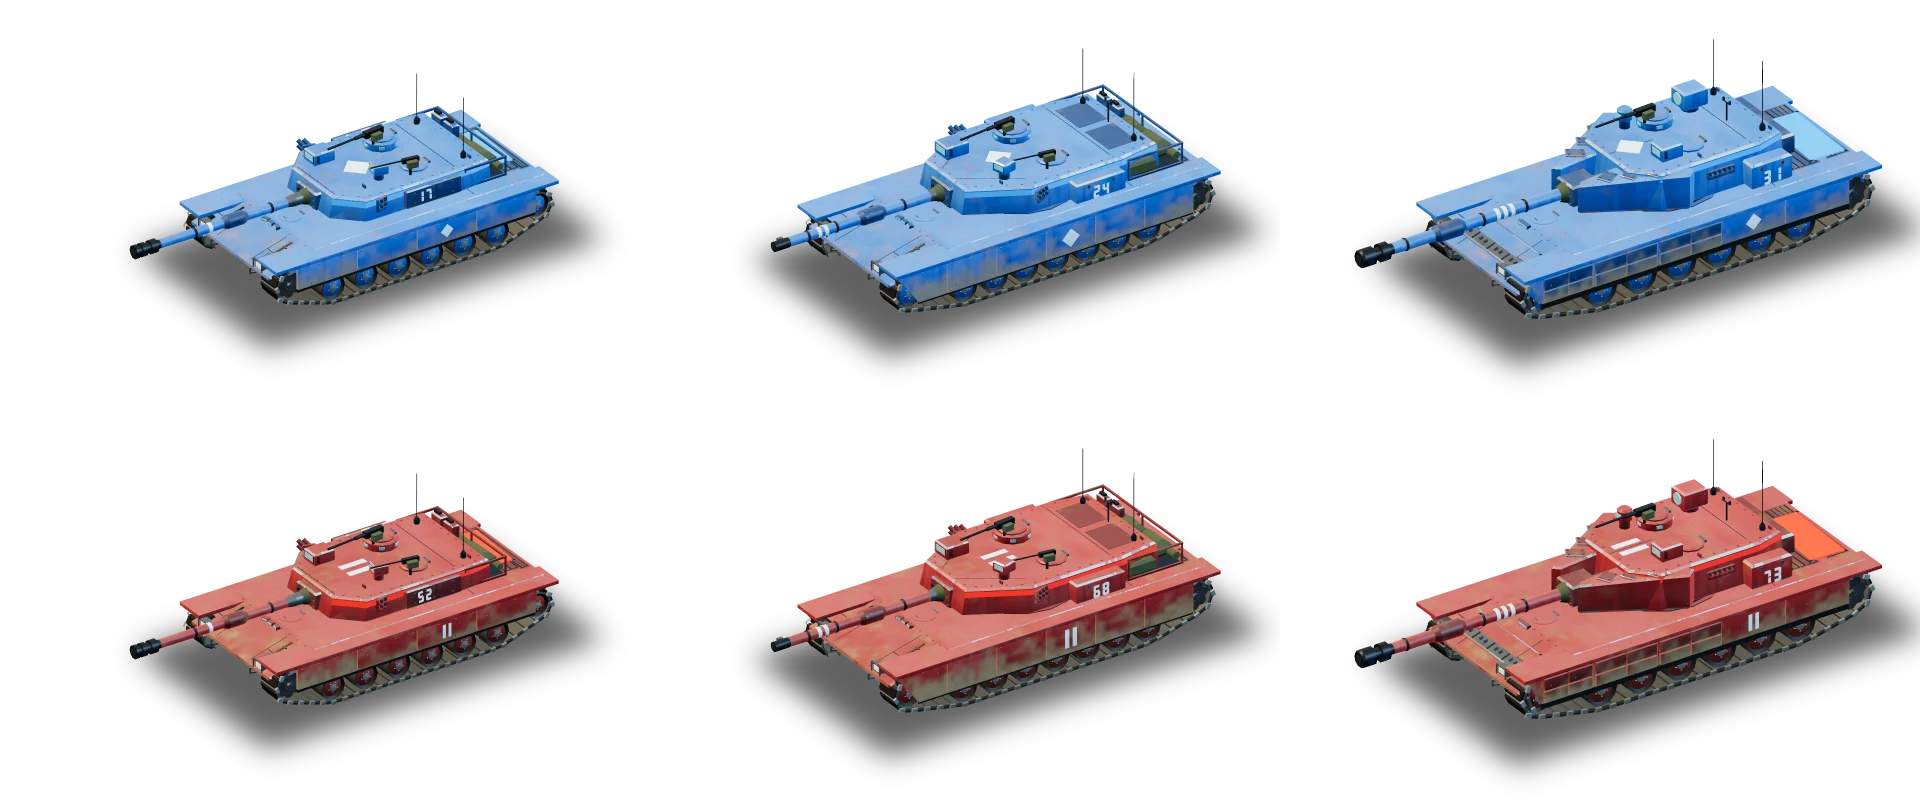
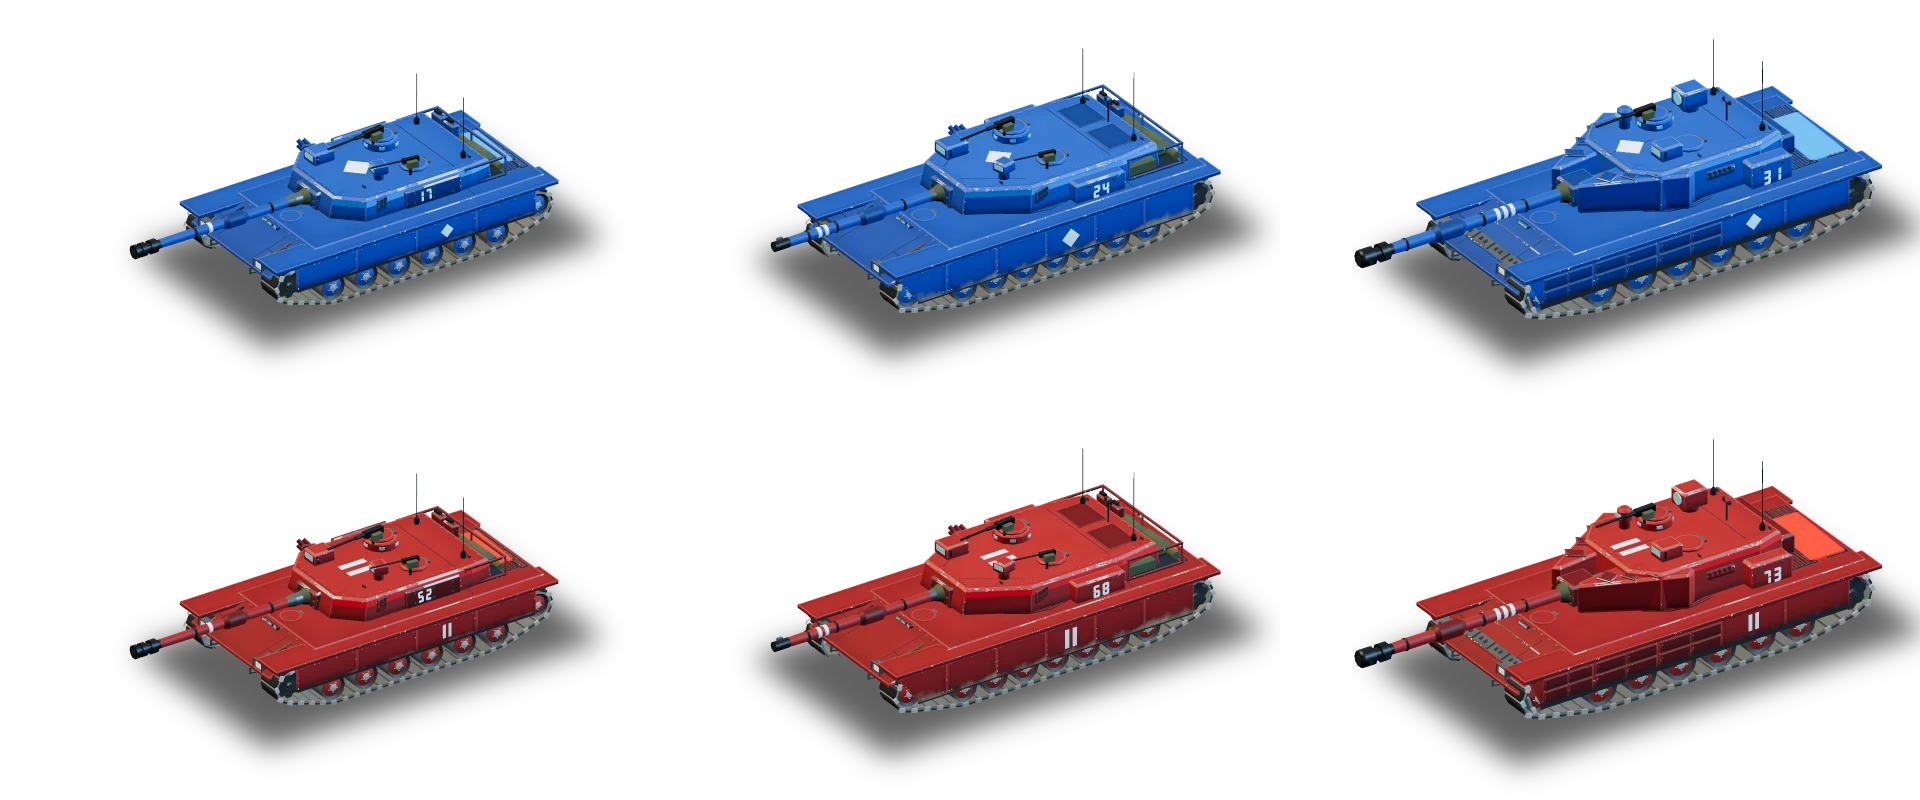
Vehicles round 3: deep team paint worn by form, bevel highlights, fill and team rim
The new direction for tanks and the HUNTER Humvee: one strong team color with
wear masked by the shape of the armor, instead of camo or a speckled finish.

- Paint: one deep team color per team (signal blue 0x234f96, crimson 0x8c2720)
  and a deep trim of it, painted by the vehicle paint shader rather than read
  from a tile, so upper panels stay clean. Upward faces lighten with height
  (turret roof above deck above fenders) and upright plates darken toward
  their foot, so the forms separate from the overhead camera.
- Edges from the mesh: the livery groups each painted mesh into plates
  (coplanar flat triangles, joined across gentle facets) and classifies each
  plate side as a convex edge or a recess from its neighbour (an upright
  plate's level foot is a recess). Every triangle carries up to two border
  line pairs in its vertex red and green; the shader recovers the distances in
  metres from their screen-space gradients. Convex edges get a pixel-sized
  bevel band (normal rolled over the edge, paint rubbed lighter) and chips to
  matte bare steel close up; recesses collect grime; panels shade a little
  darker toward their borders. No extra triangles or vertex attributes.
- Dust and mud climb only the lower hull in a broken line; the wear tile is now
  a 512 px data tile (chip field in alpha, splash and streak field in grey).
- Fill and rim: painted armor adds a fill from the sky and ground light,
[…]

diff --git a/scripts/generate-tank-textures.ts b/scripts/generate-tank-textures.ts
@@ -43,7 +43,9 @@ for (let y = 0; y < SIZE; y++)
     const i = y * SIZE + x;
     // Splashes: two scales of fractal noise, the coarse one stretched along u so the
     // dust line climbs and falls in long waves.
-    grime[i] = 0.5 + 0.75 * (fbm(splash, u * 6, v * 9, 6, 4) - 0.5) +
+    grime[i] =
+      0.5 +
+      0.75 * (fbm(splash, u * 6, v * 9, 6, 4) - 0.5) +
       0.35 * (fbm(splash, u * 24 + 5, v * 24, 24, 3) - 0.5);
     // Broad scuffing along exposed edges: a fractal field, ragged at its fine end so a
     // worn run has broken ends rather than a soft fade.
@@ -79,7 +81,7 @@ for (let placed = 0, tries = 0; placed < CHIPS && tries < 100000; tries++) {
   const mask = fbm(cluster, (x0 / SIZE) * 6, (y0 / SIZE) * 6, 6, 3);
   if (random.next() > 0.2 + 0.8 * smooth(0.42, 0.62, mask)) continue;
   placed++;
-  const radius = random.next() < 0.12 ? 5 + random.next() * 6 : 1.5 + random.next() * 3;
+  const radius = random.next() < 0.12 ? 4 + random.next() * 3 : 1.5 + random.next() * 3;
   const floor = random.next() * 0.12;
   const lobes = [random.next() * 6.28, random.next() * 6.28, random.next() * 6.28];
   const reach = Math.ceil(radius * 1.6 + 2);

diff --git a/crates/core/src/models/tests.rs b/crates/core/src/models/tests.rs
@@ -216,7 +216,7 @@ fn wreck_batches_match_golden() {
     #[rustfmt::skip]
     let expected: [(VehicleKind, usize, WreckPart, &[BatchSummary]); 4] = [
         (VehicleKind::Heavy, 1, WreckPart::Hull, &[
-            (3042, 0xe34dd7aa, 3255.2710, 0x4cf43c85, 0xf1edbc7f),
+            (3042, 0xe34dd7aa, 3255.2710, 0x4cf43c85, 0xdef2aefd),
             (3180, 0x459220d1, 1129.7989, 0xbb2cfc01, 0x14164759),
             (684, 0x68ef1928, 477.9712, 0xd89b25ac, 0x7b4617f0),
             (108, 0xc7a113b5, 38.8671, 0x3ddbc8a5, 0x18233382),
@@ -224,13 +224,13 @@ fn wreck_batches_match_golden() {
             (10416, 0xc1d435a8, -1430.3675, 0x20db8229, 0x8db44051),
         ]),
         (VehicleKind::Humvee, 0, WreckPart::TurretBarrel, &[
-            (4560, 0x7b5fde4a, 1209.6605, 0x423aa6fe, 0x5d100ea3),
+            (4560, 0x7b5fde4a, 1209.6605, 0x423aa6fe, 0x48ab4485),
             (468, 0x74e31910, -19.0127, 0x96734335, 0x3079eafc),
             (936, 0xb40fca71, -27.4347, 0xe9946e96, 0xbc244bd7),
             (348, 0x4b30ac35, -7.1422, 0xa2ea73b1, 0x643434a7),
         ]),
         (VehicleKind::Scout, 0, WreckPart::Intact, &[
-            (6732, 0x3622f7ca, 4714.4587, 0x492764aa, 0xe461bb82),
+            (6732, 0x3622f7ca, 4714.4587, 0x492764aa, 0x9c72ed32),
             (5052, 0x0ae75746, 302.0712, 0x40f48be4, 0xbe78b71f),
             (2136, 0x8ebb0f70, 3214.4811, 0x68c98d4f, 0x975788c3),
             (468, 0xc039e97b, -37.2676, 0x6ee76939, 0x7310fa1f),

diff --git a/crates/core/src/models/tank_surfaces.rs b/crates/core/src/models/tank_surfaces.rs
@@ -112,11 +112,11 @@ const UPRIGHT: f64 = 0.6;
 pub const VEHICLE_PAINT_EFFECT: &str = "vehicle-paint";
 /// The team rim's strength at a silhouette, and the paint's own fill light.
 const RIM_STRENGTH: f32 = 0.85;
-const PAINT_FILL: f32 = 0.16;
+const PAINT_FILL: f32 = 0.22;
 /// Running gear sits in the hull's shadow: more fill, no rim.
-const GEAR_FILL: f32 = 0.6;
+const GEAR_FILL: f32 = 0.9;
 /// Bare steel where the paint chipped through (sRGB).
-const BARE_STEEL: u32 = 0xa9a9a3;
+const BARE_STEEL: u32 = 0xb0aca2;
 /// Recognition panels and turret bands: matte cloth and paint in a team's signal
 /// color, without a glow of their own (a glowing stripe has no source).
 const SIGNAL_GLOW: f32 = 0.0;

diff --git a/crates/core/src/models/tank_model.rs b/crates/core/src/models/tank_model.rs
@@ -38,7 +38,7 @@ pub(crate) const STEEL: u32 = 0x6f706c;
 /// The team color is the body and the deep trim frames it, so the paint reads as
 /// a designed two-tone livery, each class's add-on armor stands out as armor
 /// rather than as dark openings, and the trim still reads as its team.
-const TRIM: [u32; 2] = [0x15335f, 0x4c1512];
+const TRIM: [u32; 2] = [0x183a6a, 0x5a1915];
 const GLASS_TINT: u32 = 0x8adeec;
 const MARKING_WHITE: u32 = 0xdce7ee;
 /// Machine guns, muzzle brakes, clamp bands and cable: dark gun metal.
